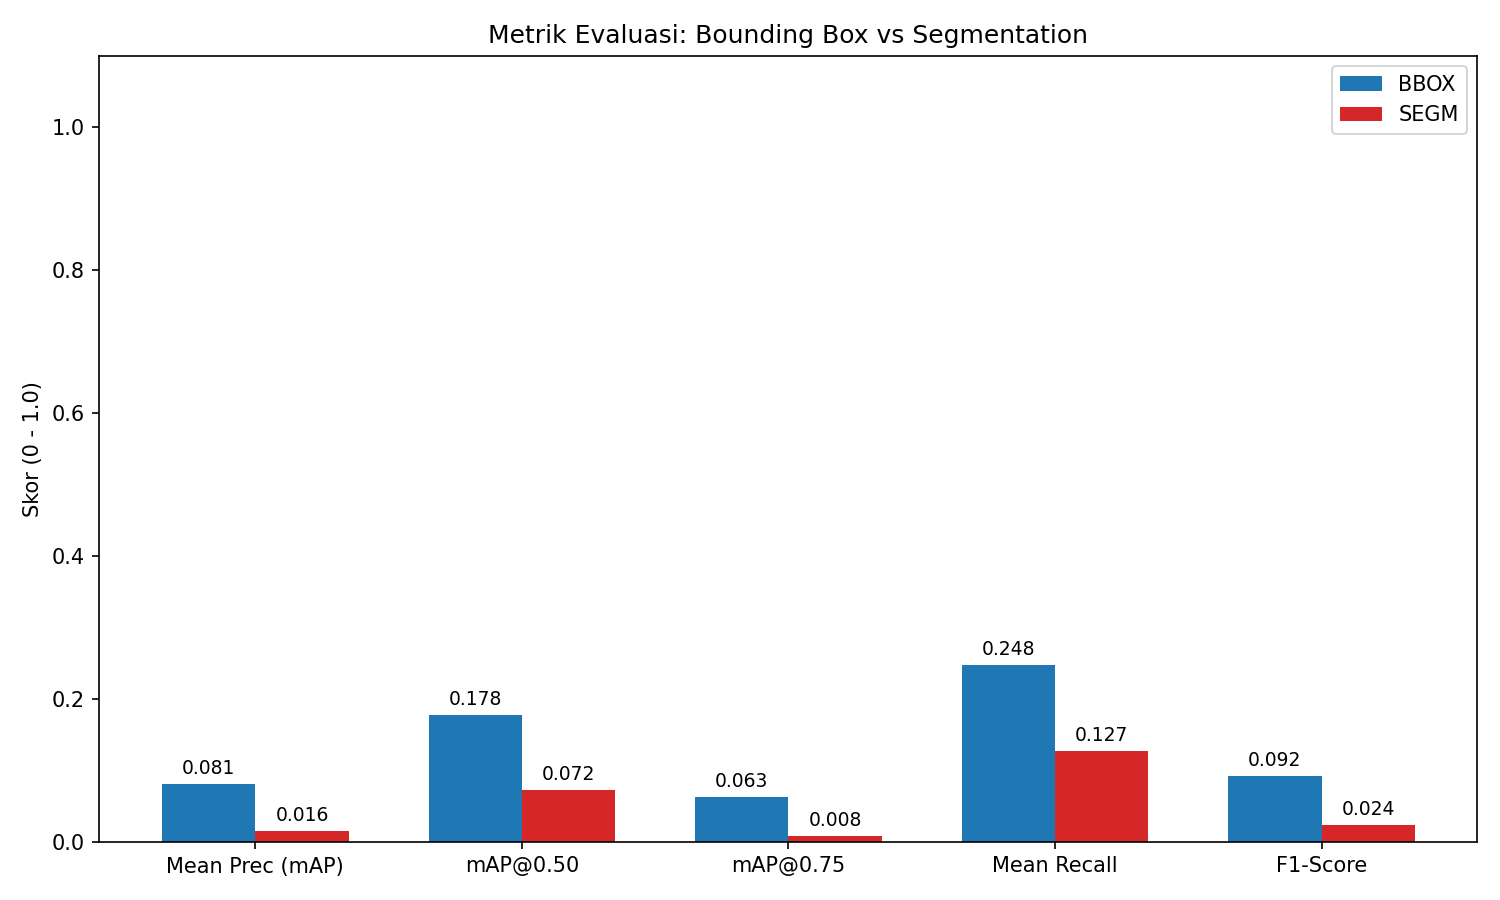
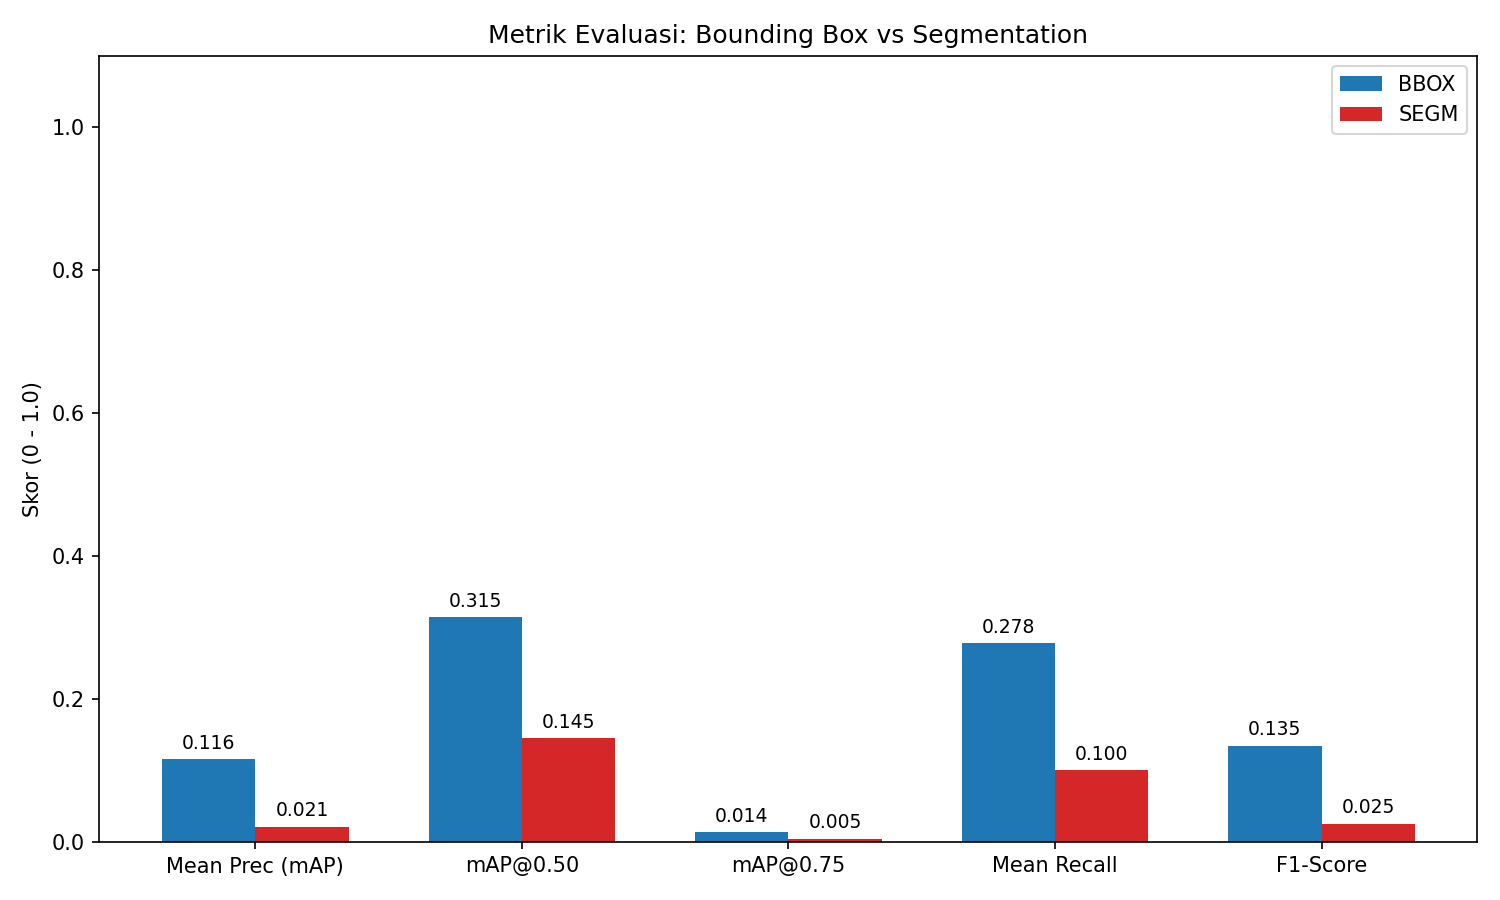
epoch : 50, best model val loss 0,6, data : v1

diff --git a/evaluate.py b/evaluate.py
@@ -120,7 +120,151 @@ def evaluate(model_path, data_dir='data', split='test', num_classes=7):
     else:
         print('Tidak ada prediksi segmentation mask!')
 
-    # Visualisasi metrik evaluasi
+    # ============== CONFUSION MATRIX (TP / FP / FN) ==============
+    from model import CLASS_NAMES
+    iou_threshold = 0.5
+    score_threshold = 0.3  # Threshold untuk confusion matrix (prediksi "yakin")
+
+    class_ids = sorted([c['id'] for c in coco_gt.dataset['categories'] if c['id'] != 0])
+    num_cls = len(class_ids)
+
+    # Confusion matrix: baris = GT class, kolom = Predicted class
+    # Tambah 1 kolom/baris untuk "Background" (missed / false)
+    cm = np.zeros((num_cls + 1, num_cls + 1), dtype=int)
+    # Indeks 0..num_cls-1 = kelas 1..6, indeks num_cls = Background/Missed
+
+    tp_per_class = np.zeros(num_cls, dtype=int)
+    fp_per_class = np.zeros(num_cls, dtype=int)
+    fn_per_class = np.zeros(num_cls, dtype=int)
+
+    def compute_iou(box1, box2):
+        """Hitung IoU antara 2 bbox [x1,y1,x2,y2]"""
+        x1 = max(box1[0], box2[0])
+        y1 = max(box1[1], box2[1])
+        x2 = min(box1[2], box2[2])
+        y2 = min(box1[3], box2[3])
+        inter = max(0, x2 - x1) * max(0, y2 - y1)
+        area1 = (box1[2] - box1[0]) * (box1[3] - box1[1])
+        area2 = (box2[2] - box2[0]) * (box2[3] - box2[1])
+        union = area1 + area2 - inter
+        return inter / union if union > 0 else 0
+
+    # Ambil semua image_id dari ground truth
+    all_img_ids = list(coco_gt.getImgIds())
+
+    for img_id in all_img_ids:
+        # Ground truth boxes
+        ann_ids = coco_gt.getAnnIds(imgIds=img_id)
+        anns = coco_gt.loadAnns(ann_ids)
+        gt_boxes = []
+        gt_labels = []
+        for ann in anns:
+            x, y, w, h = ann['bbox']
+            gt_boxes.append([x, y, x + w, y + h])
+            gt_labels.append(ann['category_id'])
+
+        # Predicted boxes (filter by score threshold)
+        pred_boxes = []
+        pred_labels = []
+        pred_scores = []
+        for r in results_bbox:
+            if r['image_id'] == img_id and r['score'] >= score_threshold:
+                bx = r['bbox']
+                pred_boxes.append([bx[0], bx[1], bx[0] + bx[2], bx[1] + bx[3]])
+                pred_labels.append(r['category_id'])
+                pred_scores.append(r['score'])
+
+        # Sortir prediksi berdasarkan skor (tertinggi dulu)
+        if pred_scores:
+            sorted_idx = np.argsort(pred_scores)[::-1]
+            pred_boxes = [pred_boxes[i] for i in sorted_idx]
+            pred_labels = [pred_labels[i] for i in sorted_idx]
+
+        gt_matched = [False] * len(gt_boxes)
+
+        # Match predictions ke ground truth
+        for pi in range(len(pred_boxes)):
+            best_iou = 0
+            best_gt = -1
+            for gi in range(len(gt_boxes)):
+                if gt_matched[gi]:
+                    continue
+                iou = compute_iou(pred_boxes[pi], gt_boxes[gi])
+                if iou > best_iou:
+                    best_iou = iou
+                    best_gt = gi
+
+            pred_cls_idx = class_ids.index(pred_labels[pi]) if pred_labels[pi] in class_ids else -1
+
+            if best_iou >= iou_threshold and best_gt >= 0:
+                gt_matched[best_gt] = True
+                gt_cls_idx = class_ids.index(gt_labels[best_gt]) if gt_labels[best_gt] in class_ids else -1
+
+                if pred_labels[pi] == gt_labels[best_gt]:
+                    # TP: Benar kelas, benar lokasi
+                    if pred_cls_idx >= 0:
+                        tp_per_class[pred_cls_idx] += 1
+                        cm[gt_cls_idx][pred_cls_idx] += 1
+                else:
+                    # Salah kelas (tapi lokasi benar)
+                    if pred_cls_idx >= 0 and gt_cls_idx >= 0:
+                        fp_per_class[pred_cls_idx] += 1
+                        fn_per_class[gt_cls_idx] += 1
+                        cm[gt_cls_idx][pred_cls_idx] += 1
+            else:
+                # FP: Prediksi tidak cocok dengan GT manapun
+                if pred_cls_idx >= 0:
+                    fp_per_class[pred_cls_idx] += 1
+                    cm[num_cls][pred_cls_idx] += 1  # Background -> Predicted class
+
+        # FN: GT yang tidak terdeteksi
+        for gi in range(len(gt_boxes)):
+            if not gt_matched[gi]:
+                gt_cls_idx = class_ids.index(gt_labels[gi]) if gt_labels[gi] in class_ids else -1
+                if gt_cls_idx >= 0:
+                    fn_per_class[gt_cls_idx] += 1
+                    cm[gt_cls_idx][num_cls] += 1  # GT class -> Background (missed)
+
+    # Hitung total TP/FP/FN
+    total_tp = int(tp_per_class.sum())
+    total_fp = int(fp_per_class.sum())
+    total_fn = int(fn_per_class.sum())
+    total_prec = total_tp / (total_tp + total_fp) if (total_tp + total_fp) > 0 else 0
+    total_rec = total_tp / (total_tp + total_fn) if (total_tp + total_fn) > 0 else 0
+    total_f1 = 2 * total_prec * total_rec / (total_prec + total_rec) if (total_prec + total_rec) > 0 else 0
+
+    # Visualisasi Confusion Matrix (Heatmap)
+    cm_labels = [CLASS_NAMES.get(cid, f'cls_{cid}') for cid in class_ids] + ['Background']
+
+    fig_cm, ax_cm = plt.subplots(figsize=(9, 7))
+    im = ax_cm.imshow(cm, interpolation='nearest', cmap='Blues')
+    ax_cm.set_title('Confusion Matrix (IoU >= 0.5)', fontsize=14, fontweight='bold')
+    fig_cm.colorbar(im, ax=ax_cm, fraction=0.046, pad=0.04)
+
+    ax_cm.set_xticks(np.arange(num_cls + 1))
+    ax_cm.set_yticks(np.arange(num_cls + 1))
+    ax_cm.set_xticklabels(cm_labels, rotation=45, ha='right', fontsize=9)
+    ax_cm.set_yticklabels(cm_labels, fontsize=9)
+    ax_cm.set_xlabel('Predicted', fontsize=12)
+    ax_cm.set_ylabel('Ground Truth', fontsize=12)
+
+    # Tulis angka di dalam kotak
+    for i in range(num_cls + 1):
+        for j in range(num_cls + 1):
+            val = cm[i, j]
+            color = 'white' if val > cm.max() / 2 else 'black'
+            ax_cm.text(j, i, str(val), ha='center', va='center', color=color, fontsize=11, fontweight='bold')
+
+    os.makedirs('outputs', exist_ok=True)
+    cm_path = os.path.join('outputs', 'confusion_matrix.png')
+    plt.tight_layout()
+    plt.savefig(cm_path, dpi=150)
+    plt.show(block=False)
+    plt.pause(3)
+    plt.close()
+    print(f'[INFO] Confusion matrix disimpan di: {os.path.abspath(cm_path)}')
+
+    # Visualisasi metrik evaluasi (grafik batang)
     if bbox_stats is not None or segm_stats is not None:
         metrics = ['Mean Prec (mAP)', 'mAP@0.50', 'mAP@0.75', 'Mean Recall', 'F1-Score']
         
@@ -163,7 +307,6 @@ def evaluate(model_path, data_dir='data', split='test', num_classes=7):
                             textcoords="offset points",
                             ha='center', va='bottom', fontsize=9)
                             
-        os.makedirs('outputs', exist_ok=True)
         out_path = os.path.join('outputs', 'evaluation_metrics.png')
         plt.tight_layout()
         plt.savefig(out_path, dpi=150)
@@ -171,7 +314,7 @@ def evaluate(model_path, data_dir='data', split='test', num_classes=7):
         plt.pause(3)
         plt.close()
         
-        print(f'\n[INFO] Grafik evaluasi berhasil disimpan di: {os.path.abspath(out_path)}')
+        print(f'[INFO] Grafik evaluasi berhasil disimpan di: {os.path.abspath(out_path)}')
 
 if __name__ == '__main__':
     evaluate(

diff --git a/train.py b/train.py
@@ -11,9 +11,9 @@ from model import get_model
 CONFIG = {
     'data_dir'     : 'data',
     'num_classes'  : 7,          
-    'num_epochs'   : 45,
+    'num_epochs'   : 50,
     'batch_size'   : 2,          
-    'lr'           : 0.001,
+    'lr'           : 0.002,
     'momentum'     : 0.9,
     'weight_decay' : 0.0005,
     'step_size'    : 30,         
